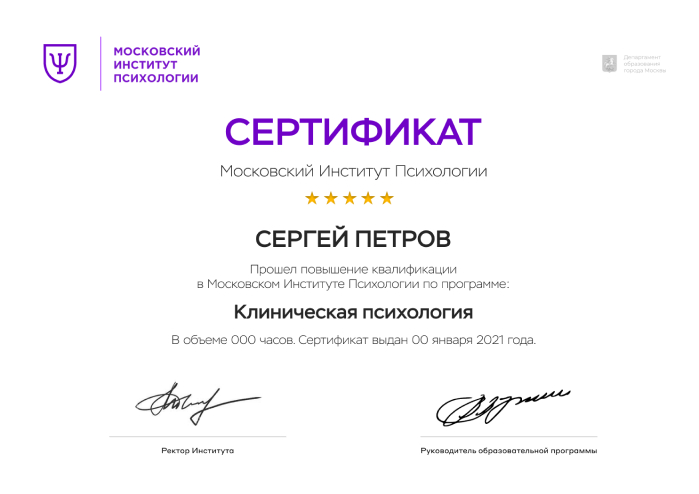
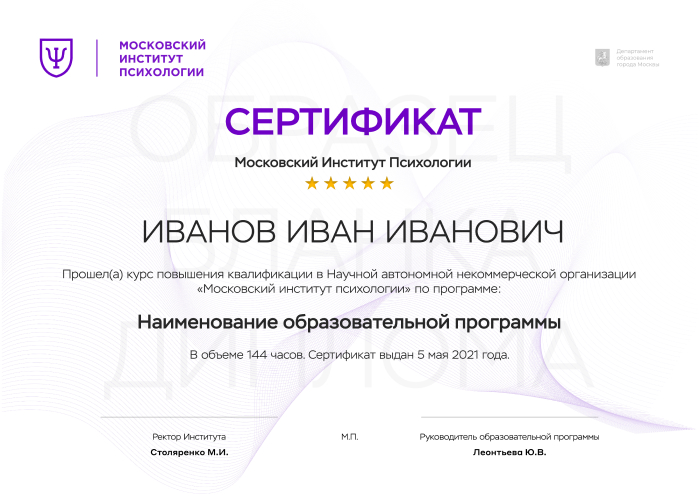
added more diplomas

diff --git a/components/imgs/diplomas/ImgDiplomaDynamic.tsx b/components/imgs/diplomas/ImgDiplomaDynamic.tsx
@@ -6,10 +6,12 @@ import { useCheckIfResourseExists } from '@/hooks/index'
 import defaultSrc from '@/public/assets/imgs/diplomas/diploma.jpg'
 import defaultSrcAlt from '@/public/assets/imgs/diplomas/diploma-alt.jpg'
 import defaultSrcCertificate from '@/public/assets/imgs/diplomas/certificate.jpg'
+import defaultSrcCertificateAlt from '@/public/assets/imgs/diplomas/certificate-alt.jpg'
 
 type TImgDiplomaDynamic = TGeneralImg & {
   diplomaAlt?: boolean
   diplomaCertificate?: boolean
+  diplomaCertificateAlt?: boolean
 }
 
 const ImgDiplomaDynamic = ({
@@ -19,7 +21,8 @@ const ImgDiplomaDynamic = ({
   width,
   height,
   diplomaAlt,
-  diplomaCertificate
+  diplomaCertificate,
+  diplomaCertificateAlt
 }: TImgDiplomaDynamic) => {
   const isImage = useCheckIfResourseExists({ src })
 
@@ -34,6 +37,8 @@ const ImgDiplomaDynamic = ({
           ? defaultSrcAlt
           : diplomaCertificate
           ? defaultSrcCertificate
+          : diplomaCertificateAlt
+          ? defaultSrcCertificateAlt
           : defaultSrc
       }
       alt={alt || 'Диплом'}

diff --git a/components/sections/YourDiploma.tsx b/components/sections/YourDiploma.tsx
@@ -13,6 +13,7 @@ import { BtnAlpha, BtnIota } from '@/components/btns'
 import {
   ImgDiplomaDynamic,
   ImgCertificate,
+  ImgCertificateAlt,
   ImgDiploma,
   ImgDiplomaAlt,
   ImgSupplement
@@ -86,6 +87,23 @@ const YourDiploma = ({ ofType = null }: YourDiplomaType) => {
           />
         ) : (
           <ImgCertificate key='certificate' />
+        )}
+      </div>,
+      <div className={stls.diploma}>
+        {program?.diploma2 ? (
+          <ImgDiplomaDynamic
+            key='certificate-alt'
+            src={program?.diploma2?.url}
+            width={program?.diploma2?.width && 700}
+            height={getImageHeight({
+              width: 700,
+              widthInitial: program?.diploma2?.width,
+              heightInitial: program?.diploma2?.height
+            })}
+            diplomaCertificateAlt
+          />
+        ) : (
+          <ImgCertificateAlt key='certificate-alt' />
         )}
       </div>
     )

diff --git a/components/imgs/index.ts b/components/imgs/index.ts
@@ -2,6 +2,7 @@ import ImgTemplate from '@/components/imgs/ImgTemplate'
 import ImgDiploma1 from '@/components/imgs/diplomas/ImgDiploma1'
 import ImgDiploma from '@/components/imgs/diplomas/ImgDiploma'
 import ImgCertificate from '@/components/imgs/diplomas/ImgCertificate'
+import ImgCertificateAlt from '@/components/imgs/diplomas/ImgCertificateAlt'
 import ImgDiplomaAlt from '@/components/imgs/diplomas/ImgDiplomaAlt'
 import ImgDiplomaDynamic from '@/components/imgs/diplomas/ImgDiplomaDynamic'
 import ImgSupplement from '@/components/imgs/diplomas/ImgSupplement'
@@ -37,6 +38,7 @@ export {
   ImgDiploma1,
   ImgDiploma,
   ImgCertificate,
+  ImgCertificateAlt,
   ImgDiplomaAlt,
   ImgDiplomaDynamic,
   ImgSupplement,

diff --git a/components/imgs/diplomas/ImgCertificateAlt.tsx b/components/imgs/diplomas/ImgCertificateAlt.tsx
@@ -1,0 +1,20 @@
+import stls from '@/styles/components/imgs/diplomas/ImgCertificateAlt.module.sass'
+import Image from 'next/image'
+import pic from '@/public/assets/imgs/diplomas/certificate-alt.jpg'
+
+const ImgCertificateAlt = ({ width = 0, height = 0 }) => {
+  return (
+    <div className={stls.container}>
+      <Image
+        src={pic}
+        alt='Удостоверение'
+        className={stls.img}
+        width={width !== 0 && width}
+        height={height !== 0 && height}
+        placeholder='blur'
+      />
+    </div>
+  )
+}
+
+export default ImgCertificateAlt

diff --git a/components/sections/Diplomas.tsx b/components/sections/Diplomas.tsx
@@ -5,7 +5,8 @@ import {
   ImgDiploma,
   ImgDiplomaAlt,
   ImgSupplement,
-  ImgCertificate
+  ImgCertificate,
+  ImgCertificateAlt
 } from '@/components/imgs'
 
 const Diplomas = () => {
@@ -27,6 +28,10 @@ const Diplomas = () => {
         {
           image: <ImgCertificate />,
           title: 'Сертификат института'
+        },
+        {
+          image: <ImgCertificateAlt />,
+          title: 'Удостоверение института'
         }
       ]
     }

diff --git a/components/program/ProgramInfo.tsx b/components/program/ProgramInfo.tsx
@@ -48,7 +48,7 @@ const ProgramInfo = () => {
     },
     {
       key: type === 'Profession' ? 'Диплом:' : 'Документ по окончанию',
-      val: type === 'Profession' ? 'Диплом о переподготовке' : 'Сертификат',
+      val: type === 'Profession' ? 'Диплом о переподготовке' : 'Удостоверение',
       icon: <IconFile />
     }
   ]

diff --git a/styles/components/imgs/diplomas/ImgCertificateAlt.module.sass b/styles/components/imgs/diplomas/ImgCertificateAlt.module.sass
@@ -1,0 +1,4 @@
+@use '@/styles/utils/mixin' as m
+@use '@/styles/utils/funcs' as f
+
+.container
